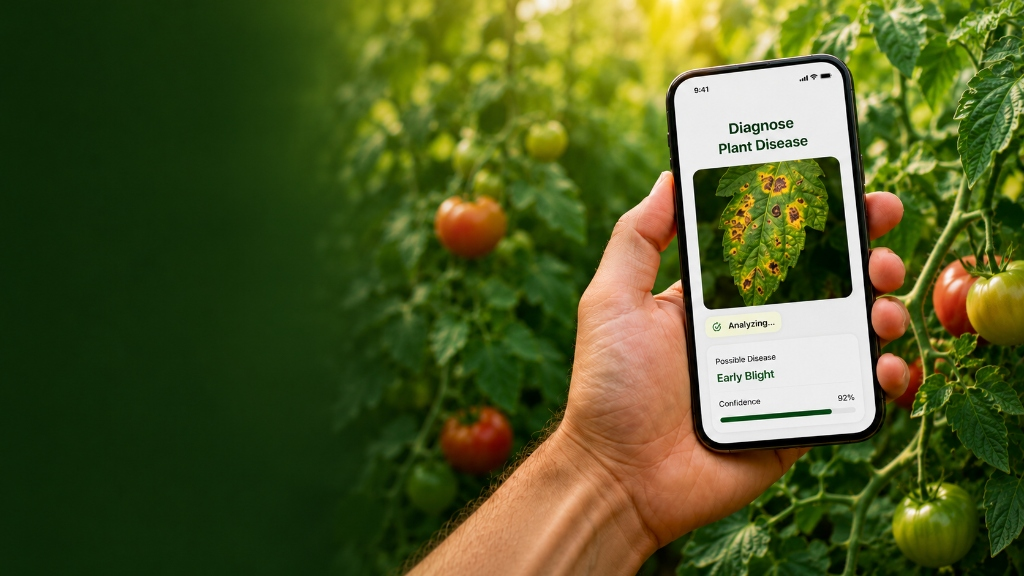
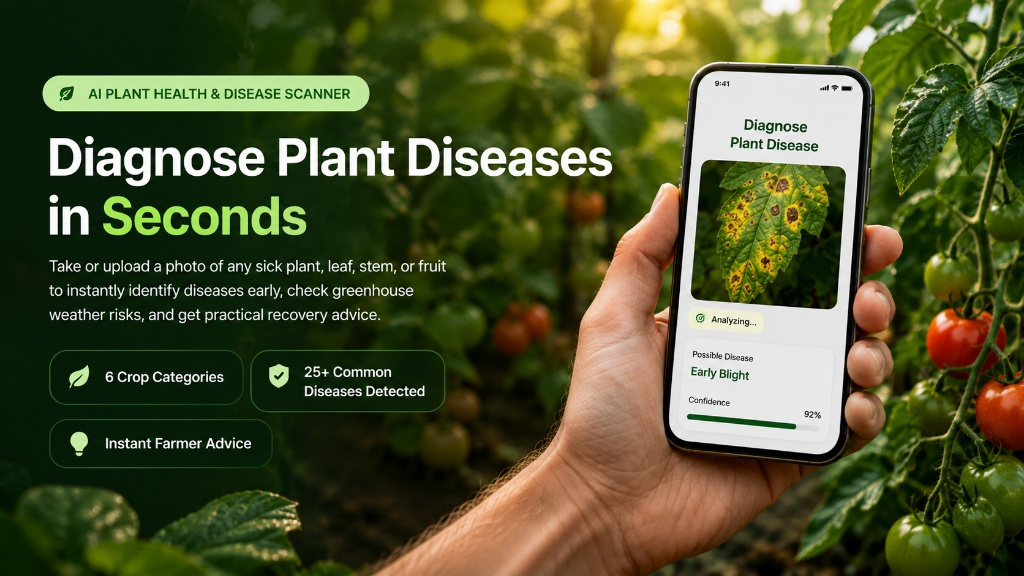
feat(hero): update hero section with high-res smartphone scanner graphic and optimized gradient blend

diff --git a/frontend/src/pages/DiagnosisPage.css b/frontend/src/pages/DiagnosisPage.css
@@ -105,7 +105,7 @@
   top: 0;
   right: 0;
   bottom: 0;
-  width: 50%;
+  width: 54%;
   z-index: 1;
   overflow: hidden;
 }
@@ -114,7 +114,7 @@
   content: '';
   position: absolute;
   inset: 0;
-  background: linear-gradient(90deg, #032b18 0%, rgba(3, 43, 24, 0.7) 25%, transparent 55%);
+  background: linear-gradient(90deg, #032b18 0%, rgba(3, 43, 24, 0.75) 20%, rgba(3, 43, 24, 0.15) 50%, transparent 65%);
   z-index: 2;
   pointer-events: none;
 }
@@ -123,13 +123,13 @@
   width: 100%;
   height: 100%;
   object-fit: cover;
-  object-position: center center;
+  object-position: right center;
   display: block;
   transition: transform 0.4s ease;
 }
 
 .hero-scanner-img:hover {
-  transform: scale(1.03);
+  transform: scale(1.02);
 }
 
 /* ==========================================================================
